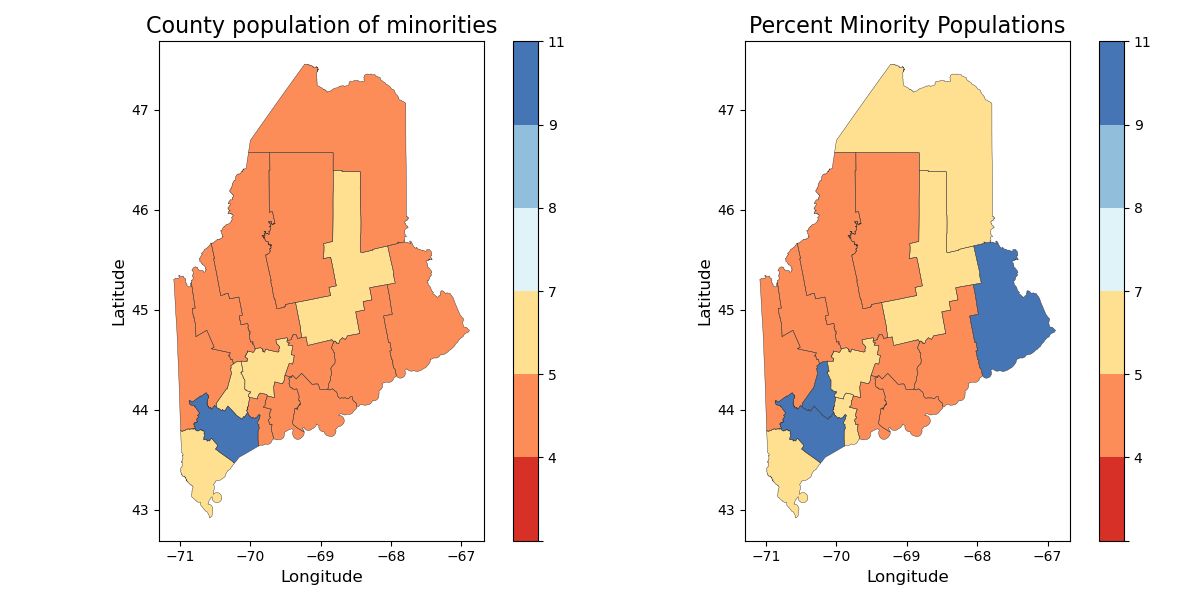
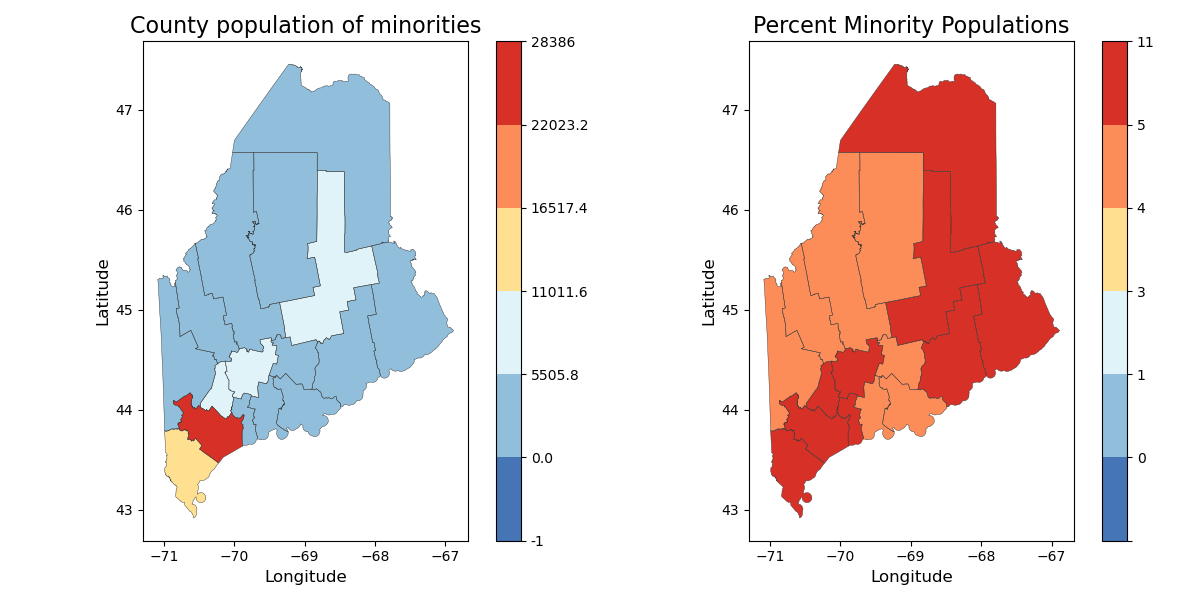
color change

diff --git a/src/make_county_plots.py b/src/make_county_plots.py
@@ -30,7 +30,7 @@ def make_plot(gpd_obj, plot_obj):
         gpd_obj[plot_obj[index]] = pd.to_numeric(gpd_obj[plot_obj[index]], errors='coerce')
         gpd_obj[plot_obj[index]] = gpd_obj[plot_obj[index]].fillna(0)  # Data cleaning
     
-    color_list = assign_colors.colors[0][::-1]
+    color_list = assign_colors.colors[0]
 
     # Calculate the range for each color
     min_val = gpd_obj[plot_obj[0]].min()
@@ -65,10 +65,10 @@ def make_plot(gpd_obj, plot_obj):
     ax[0].set_xlabel('Longitude', fontsize=12)
     ax[0].set_ylabel('Latitude', fontsize=12)
     
-    color_bins_pct_str = [str(round(value)) for value in color_bins_pct]
-    color_bins_pct_str[0] = ''
+    color_bins_pop_str = [str(round(value)) for value in color_bins_pop]
+    color_bins_pop_str[0] = ''
     colorbar = fig.colorbar(ax[0].collections[0], ax=ax[0])  # Assuming a single plot on the axes
-    colorbar.ax.set_yticklabels(color_bins_pct_str)  # Example: Set custom tick labels
+    colorbar.ax.set_yticklabels(color_bins_pop)  # Example: Set custom tick labels
     
     # Right side of fig plot details
     gpd_obj.plot(column=plot_obj[2], cmap=cmap_pct, norm=norm_pct, figsize=(8,8), ax=ax[1])

diff --git a/src/make_plots.py b/src/make_plots.py
@@ -29,7 +29,7 @@ def make_plot(gpd_obj, plot_obj):
         gpd_obj[plot_obj[index]] = pd.to_numeric(gpd_obj[plot_obj[index]], errors='coerce')
         gpd_obj[plot_obj[index]] = gpd_obj[plot_obj[index]].fillna(0)  # Data cleaning
     
-    color_list = assign_colors.colors[0][::-1]
+    color_list = assign_colors.colors[0]
 
     # Calculate the range for each color
     min_val = gpd_obj[plot_obj[0]].min()
